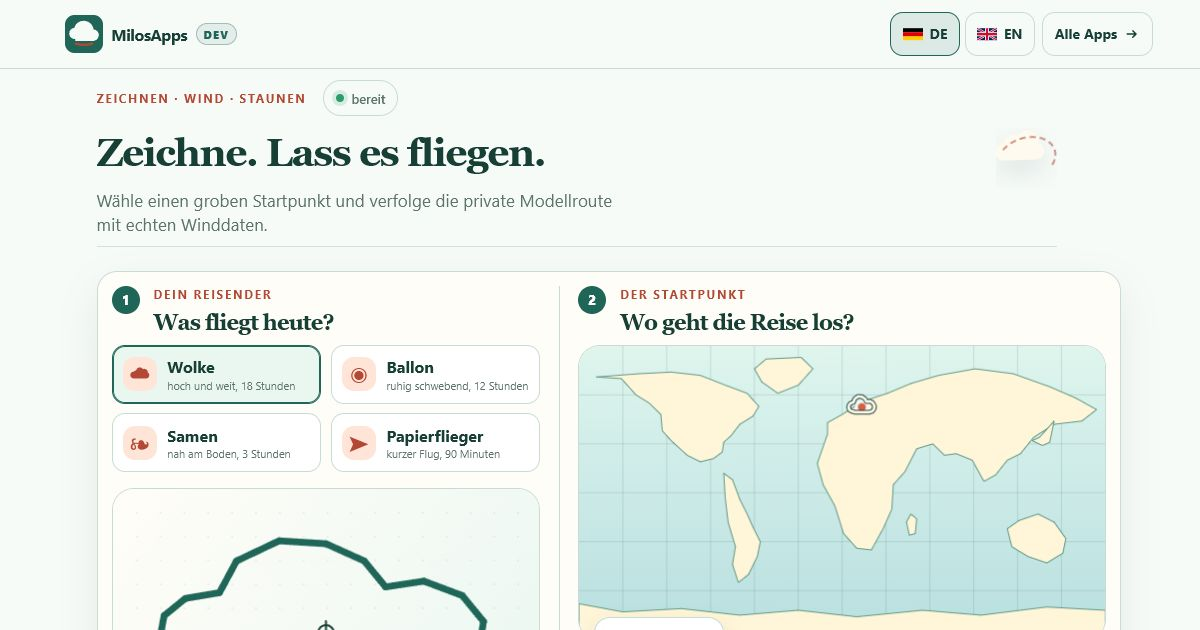
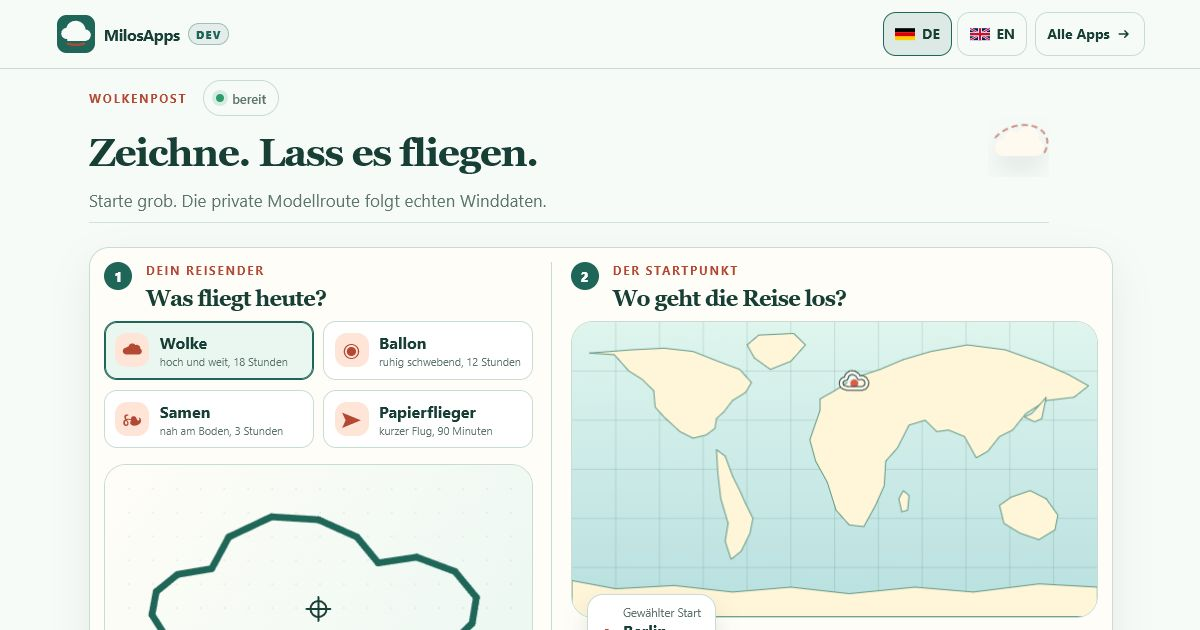
fix: tighten German mobile intro density

diff --git a/tests/e2e/visual-contract.spec.ts b/tests/e2e/visual-contract.spec.ts
@@ -6,6 +6,8 @@ import { expectNoHorizontalOverflow, recordConsoleProblems } from './helpers';
 const cases = [
   { name: 'desktop-de', width: 1440, height: 900, locale: 'de', theme: 'system' },
   { name: 'desktop-dark-de', width: 1440, height: 900, locale: 'de', theme: 'dark' },
+  { name: 'mobile-de-375', width: 375, height: 844, locale: 'de', theme: 'system' },
+  { name: 'mobile-de-390', width: 390, height: 844, locale: 'de', theme: 'system' },
   { name: 'mobile-en', width: 390, height: 844, locale: 'en', theme: 'system' },
   // CSS-pixel equivalent of a 360 x 800 viewport at 200% browser zoom.
   { name: 'zoom200-de', width: 180, height: 400, locale: 'de', theme: 'system' },
@@ -114,6 +116,8 @@ for (const visualCase of cases) {
       const settings = document.querySelector<HTMLElement>('.settings-section')!;
       return {
         responses,
+        clientWidth: document.documentElement.clientWidth,
+        scrollWidth: document.documentElement.scrollWidth,
         introHeight: intro.height,
         primaryTop: primary.top + window.scrollY,
         layoutDisplay: getComputedStyle(document.querySelector<HTMLElement>('[data-milos-layout="compact"]')!).display,
@@ -146,7 +150,9 @@ for (const visualCase of cases) {
       expect(Math.max(layoutContract.introIconWidth, layoutContract.introIconHeight)).toBeLessThanOrEqual(72);
       expect(layoutContract.settingsHeight).toBeLessThanOrEqual(220);
     }
-    if (visualCase.name === 'mobile-en') {
+    if (visualCase.name.startsWith('mobile-')) {
+      expect(layoutContract.clientWidth).toBe(visualCase.width);
+      expect(layoutContract.scrollWidth).toBe(layoutContract.clientWidth);
       expect(layoutContract.introHeight).toBeLessThanOrEqual(220);
       expect(layoutContract.primaryTop).toBeLessThanOrEqual(420);
       expect(layoutContract.h1Size).toBeLessThanOrEqual(36);

diff --git a/src/copy.ts b/src/copy.ts
@@ -13,9 +13,9 @@ export const copy = {
       offline: 'offline',
     },
     hero: {
-      eyebrow: 'Zeichnen · Wind · Staunen',
+      eyebrow: 'Wolkenpost',
       heading: 'Zeichne. Lass es fliegen.',
-      lead: 'Wähle einen groben Startpunkt und verfolge die private Modellroute mit echten Winddaten.',
+      lead: 'Starte grob. Die private Modellroute folgt echten Winddaten.',
       start: 'Jetzt loszeichnen',
     },
     objectTypes: {
@@ -179,9 +179,9 @@ export const copy = {
       offline: 'offline',
     },
     hero: {
-      eyebrow: 'Draw · Wind · Wonder',
+      eyebrow: 'Cloud Post',
       heading: 'Draw it. Let it fly.',
-      lead: 'Choose an approximate start and follow the private model route using real wind data.',
+      lead: 'Start roughly. The private model route follows real wind data.',
       start: 'Start drawing',
     },
     objectTypes: {

diff --git a/docs/QA_EVIDENCE.md b/docs/QA_EVIDENCE.md
@@ -354,6 +354,48 @@ Playwright:         100 Kombinationen, 34 bestanden, 66 profilspezifisch
 Visual-QA:          4/4 in der finalen zweiten Runde
 ```
 
+## Runde 8 – deutsche Mobile-Dichte nach unabhängiger Live-Messung
+
+Die erste v1.1-Abnahme maß mobil nur die englische Fassung. Eine unabhängige
+Live-Prüfung zeigte deshalb eine echte Lücke: Bei 375 px Clientbreite brachen
+die lange deutsche Metazeile und der Bereitschaftsstatus um; zusammen mit dem
+deutschen Lead wuchs das Intro auf 253,59 px. Bei 390 px Clientbreite waren es
+noch 233,80 px. Overflow und Fachfunktion blieben zwar grün, das 220-px-Budget
+war aber nicht erfüllt.
+
+Der enge App-Patch kürzt ausschließlich die redundante Metazeile zu
+„Wolkenpost“ und formuliert den Lead kompakter. Datenschutz- und Modellwahrheit
+bleiben explizit erhalten: grober Startpunkt, private Modellroute und echte
+Winddaten. H1, Intro-Icon, Paired-Flow, Settings und beide Shared-Pins bleiben
+unverändert.
+
+Fokussierte visuelle Runde 1 nach dem Patch:
+
+- 375 px Clientbreite, DE: Intro 206,30 px, Primärarbeit ab 343,67 px;
+- 390 px Clientbreite, DE: Intro 184,53 px, Primärarbeit ab 321,91 px;
+- 390 px, EN: Intro 156,70 px, Primärarbeit ab 294,08 px;
+- jeweils H1 27,2–27,3 px, H2 18,4 px, Icon 52 × 52 px, Settings 338,92 px,
+  Clientbreite gleich Scrollbreite und kein Clipping.
+
+Die Regression enthält jetzt beide deutschen Clientbreiten zusätzlich zum
+englischen Mobilfall. Damit kann eine englische Kurzfassung einen deutschen
+Umbruch künftig nicht mehr verdecken.
+
+Fokussierte visuelle Runde 2 und vollständiges Abschlussgate:
+
+```text
+Shared-Validatoren: Shell v2.0.3 PASS; Layout v1.1.0 PASS
+Vitest:             5 Dateien, 20 Tests, 20 bestanden
+Visual-QA:          6/6 bestanden (Desktop hell/dunkel, DE 375/390,
+                    EN 390, 200%-Äquivalent)
+Playwright:         108 Kombinationen, 36 bestanden, 72 profilspezifisch
+                    gefiltert, 0 fehlgeschlagen
+Build:              Standardbuild PASS
+```
+
+Das aktualisierte app-eigene `preview.png` zeigt denselben verkürzten
+DE-Introtext; Rechtebasis bleibt ein Screenshot ausschließlich der eigenen App.
+
 ## Verbleibende Prüfgrenzen
 
 - Keine echte Betriebslast oder API-Quota-Prüfung; nur ein einzelner echter

diff --git a/docs/LEARNINGS.md b/docs/LEARNINGS.md
@@ -228,3 +228,21 @@ gemeldet. Zugangsdaten und Nutzerdaten gehören nicht in diese Datei.
 - Für andere MilosApps relevant: Ja. Ein mobiles Höhenbudget und extremer
   Textzoom sind unterschiedliche Grenzen; eine einzige Spaltenregel optimiert
   nicht automatisch beide.
+
+## 2026-08-02 – Dichtebudgets müssen die längste Sprache abdecken
+
+- Datum und geprüfter Stand: 2. August 2026, enger Wolkenpost-Folgepatch auf
+  `public-app-layout/v1.1.0`.
+- Beobachtung: Der englische 390-px-Fall erfüllte das 220-px-Introbudget, während
+  Deutsch bei 375 px wegen einer umbrechenden Metazeile 253,59 px erreichte.
+  Overflowtests allein meldeten keinen Fehler.
+- Evidenz oder reproduzierbarer Test: `visual-contract.spec.ts` misst nun DE bei
+  375 und 390 px sowie EN bei 390 px und prüft Clientbreite, Scrollbreite,
+  Introhöhe und Oberkante der Primärarbeit.
+- Änderung und Regressionstest: Die redundante Metazeile wurde sprachlich
+  gekürzt, ebenso der Lead bei unveränderter Datenschutz-/Modellwahrheit. Die
+  neuen DE-Werte liegen bei 206,30/343,67 px (375) und 184,53/321,91 px (390).
+- Für andere MilosApps relevant: Ja. Das Dichtegate einer lokalisierten
+  Oberfläche muss mindestens die längste unterstützte Sprache in jeder
+  kritischen Breite messen; ein kürzerer Sprachfall plus Overflowcheck genügt
+  nicht.

diff --git a/docs/DEV_HANDOFF.md b/docs/DEV_HANDOFF.md
@@ -75,6 +75,10 @@ Für die zweite Layoutiteration auf `public-app-layout/v1.1.0` ist
 portal-verifizierte App-/Pages-Stand. Ein normaler Revert auf diesen Commit
 stellt die v1.0.0-Dichte wieder her, ohne Shell, Shared oder Portal zu ändern.
 
+Für den engen Folgepatch der deutschen Mobile-Dichte ist
+`e5d4dd6869d921c8876433a7a860a65077474bd5` der unmittelbar vorherige gesunde
+DEV-Stand und damit der bevorzugte Rollbackpunkt.
+
 ## Portalgrenze
 
 Die Portalroute `/apps/cloud-post` darf ausschließlich auf die oben genannte
